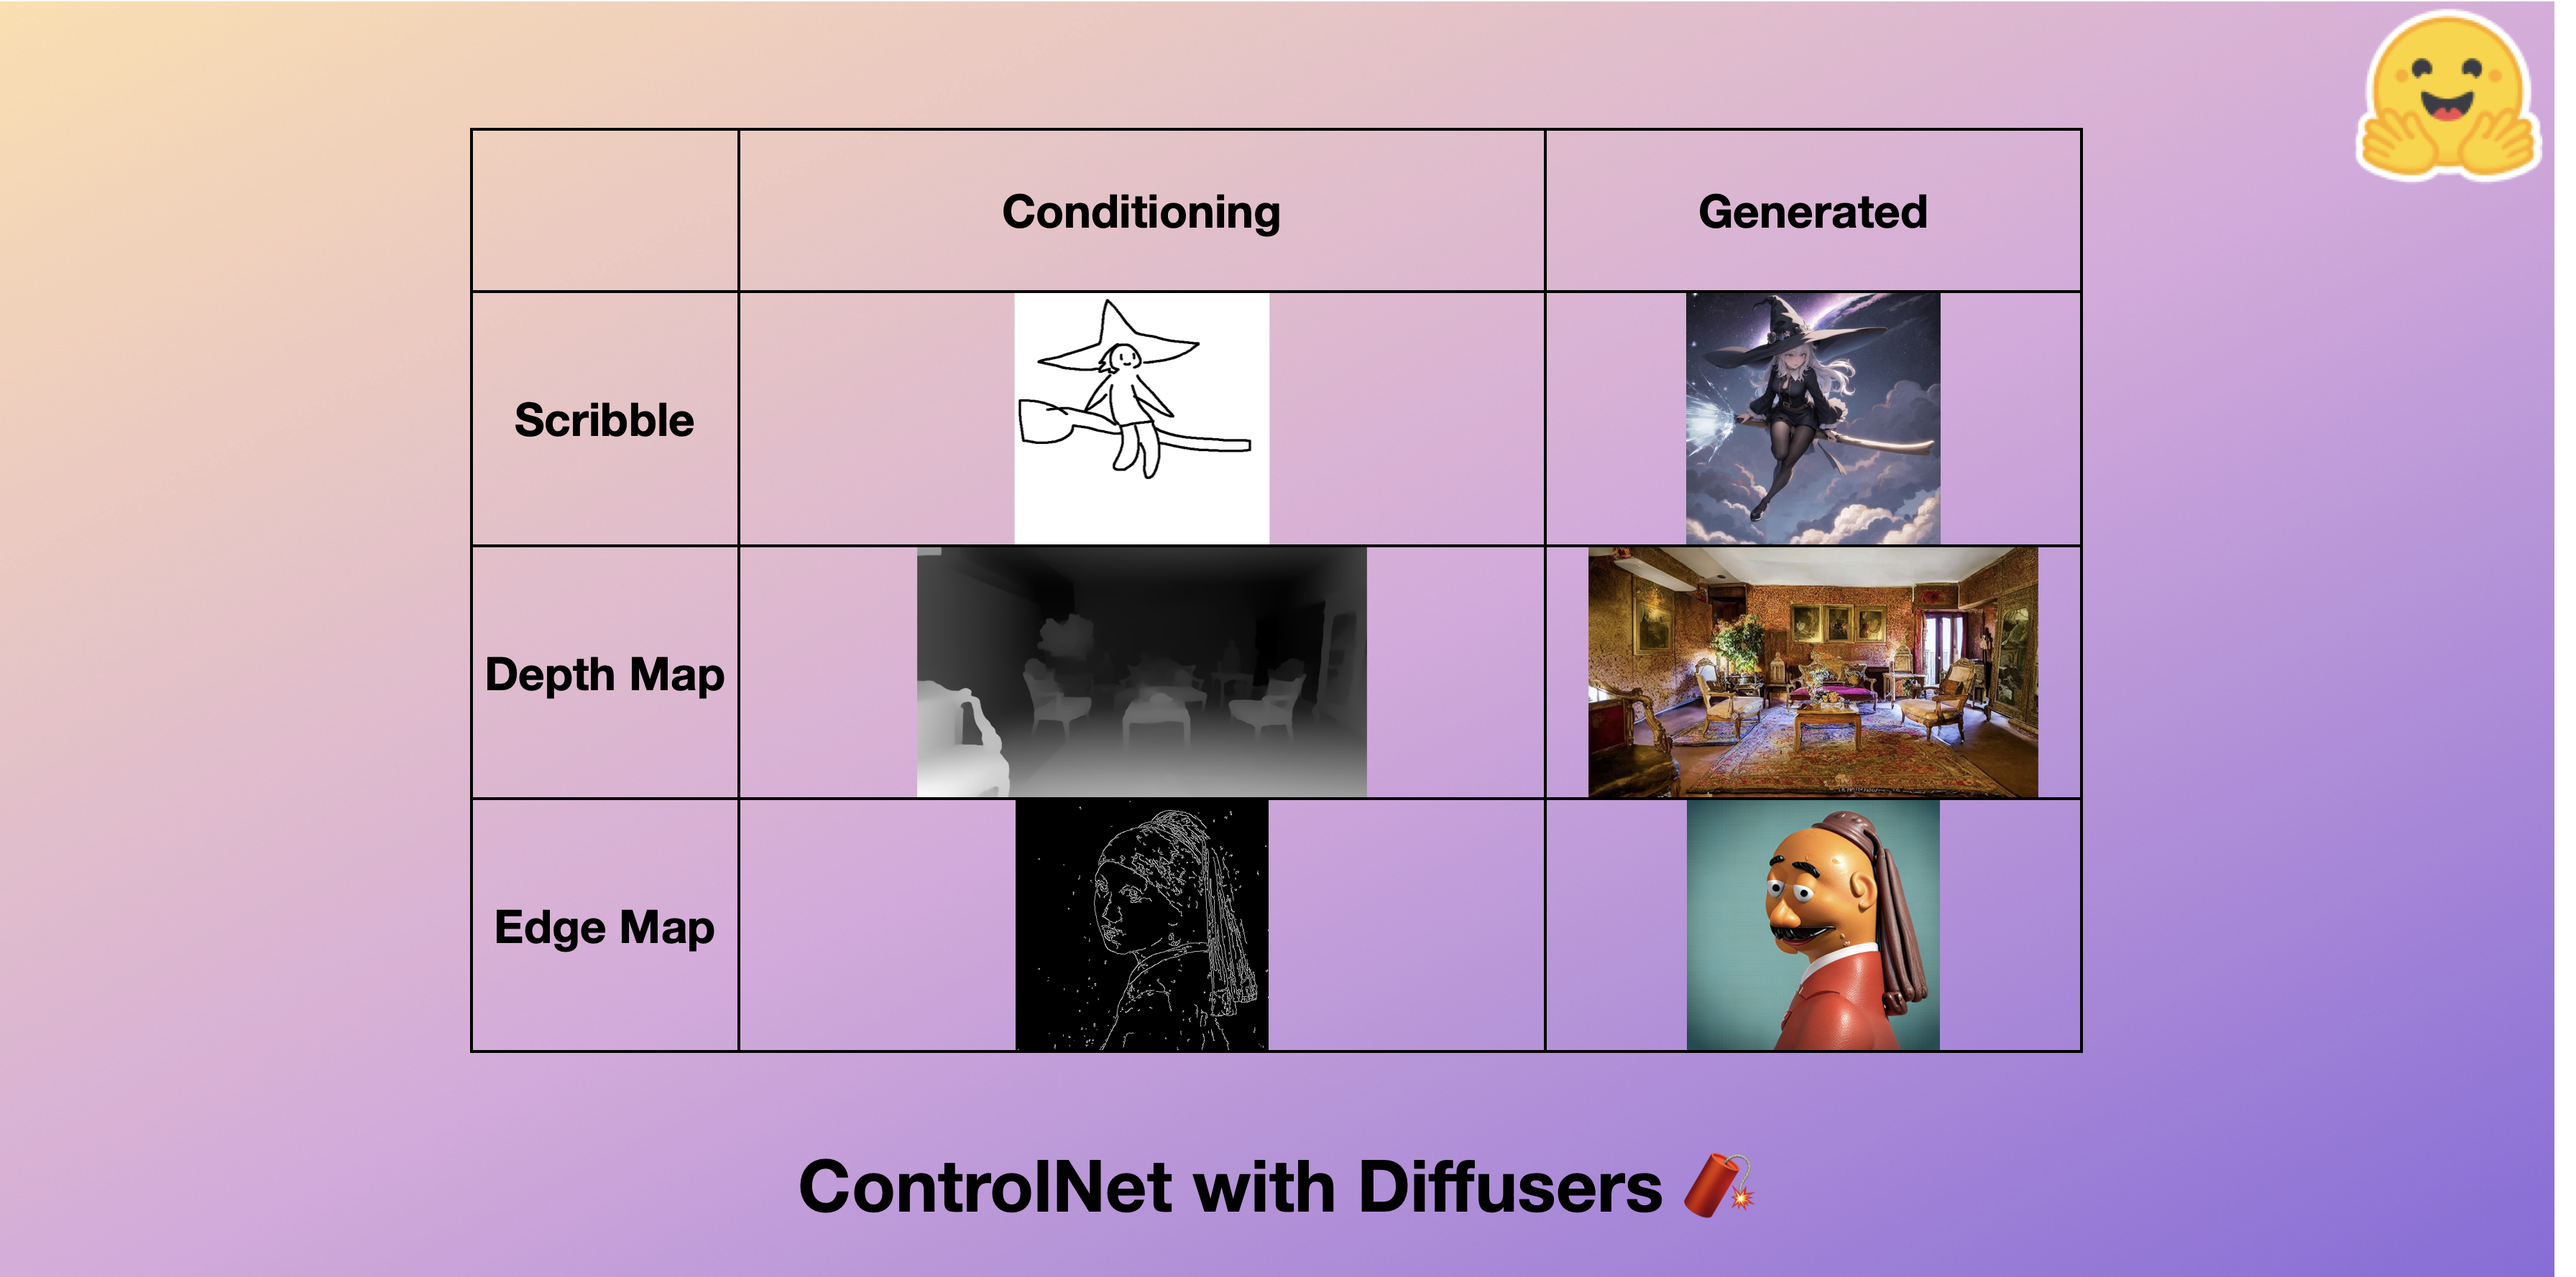
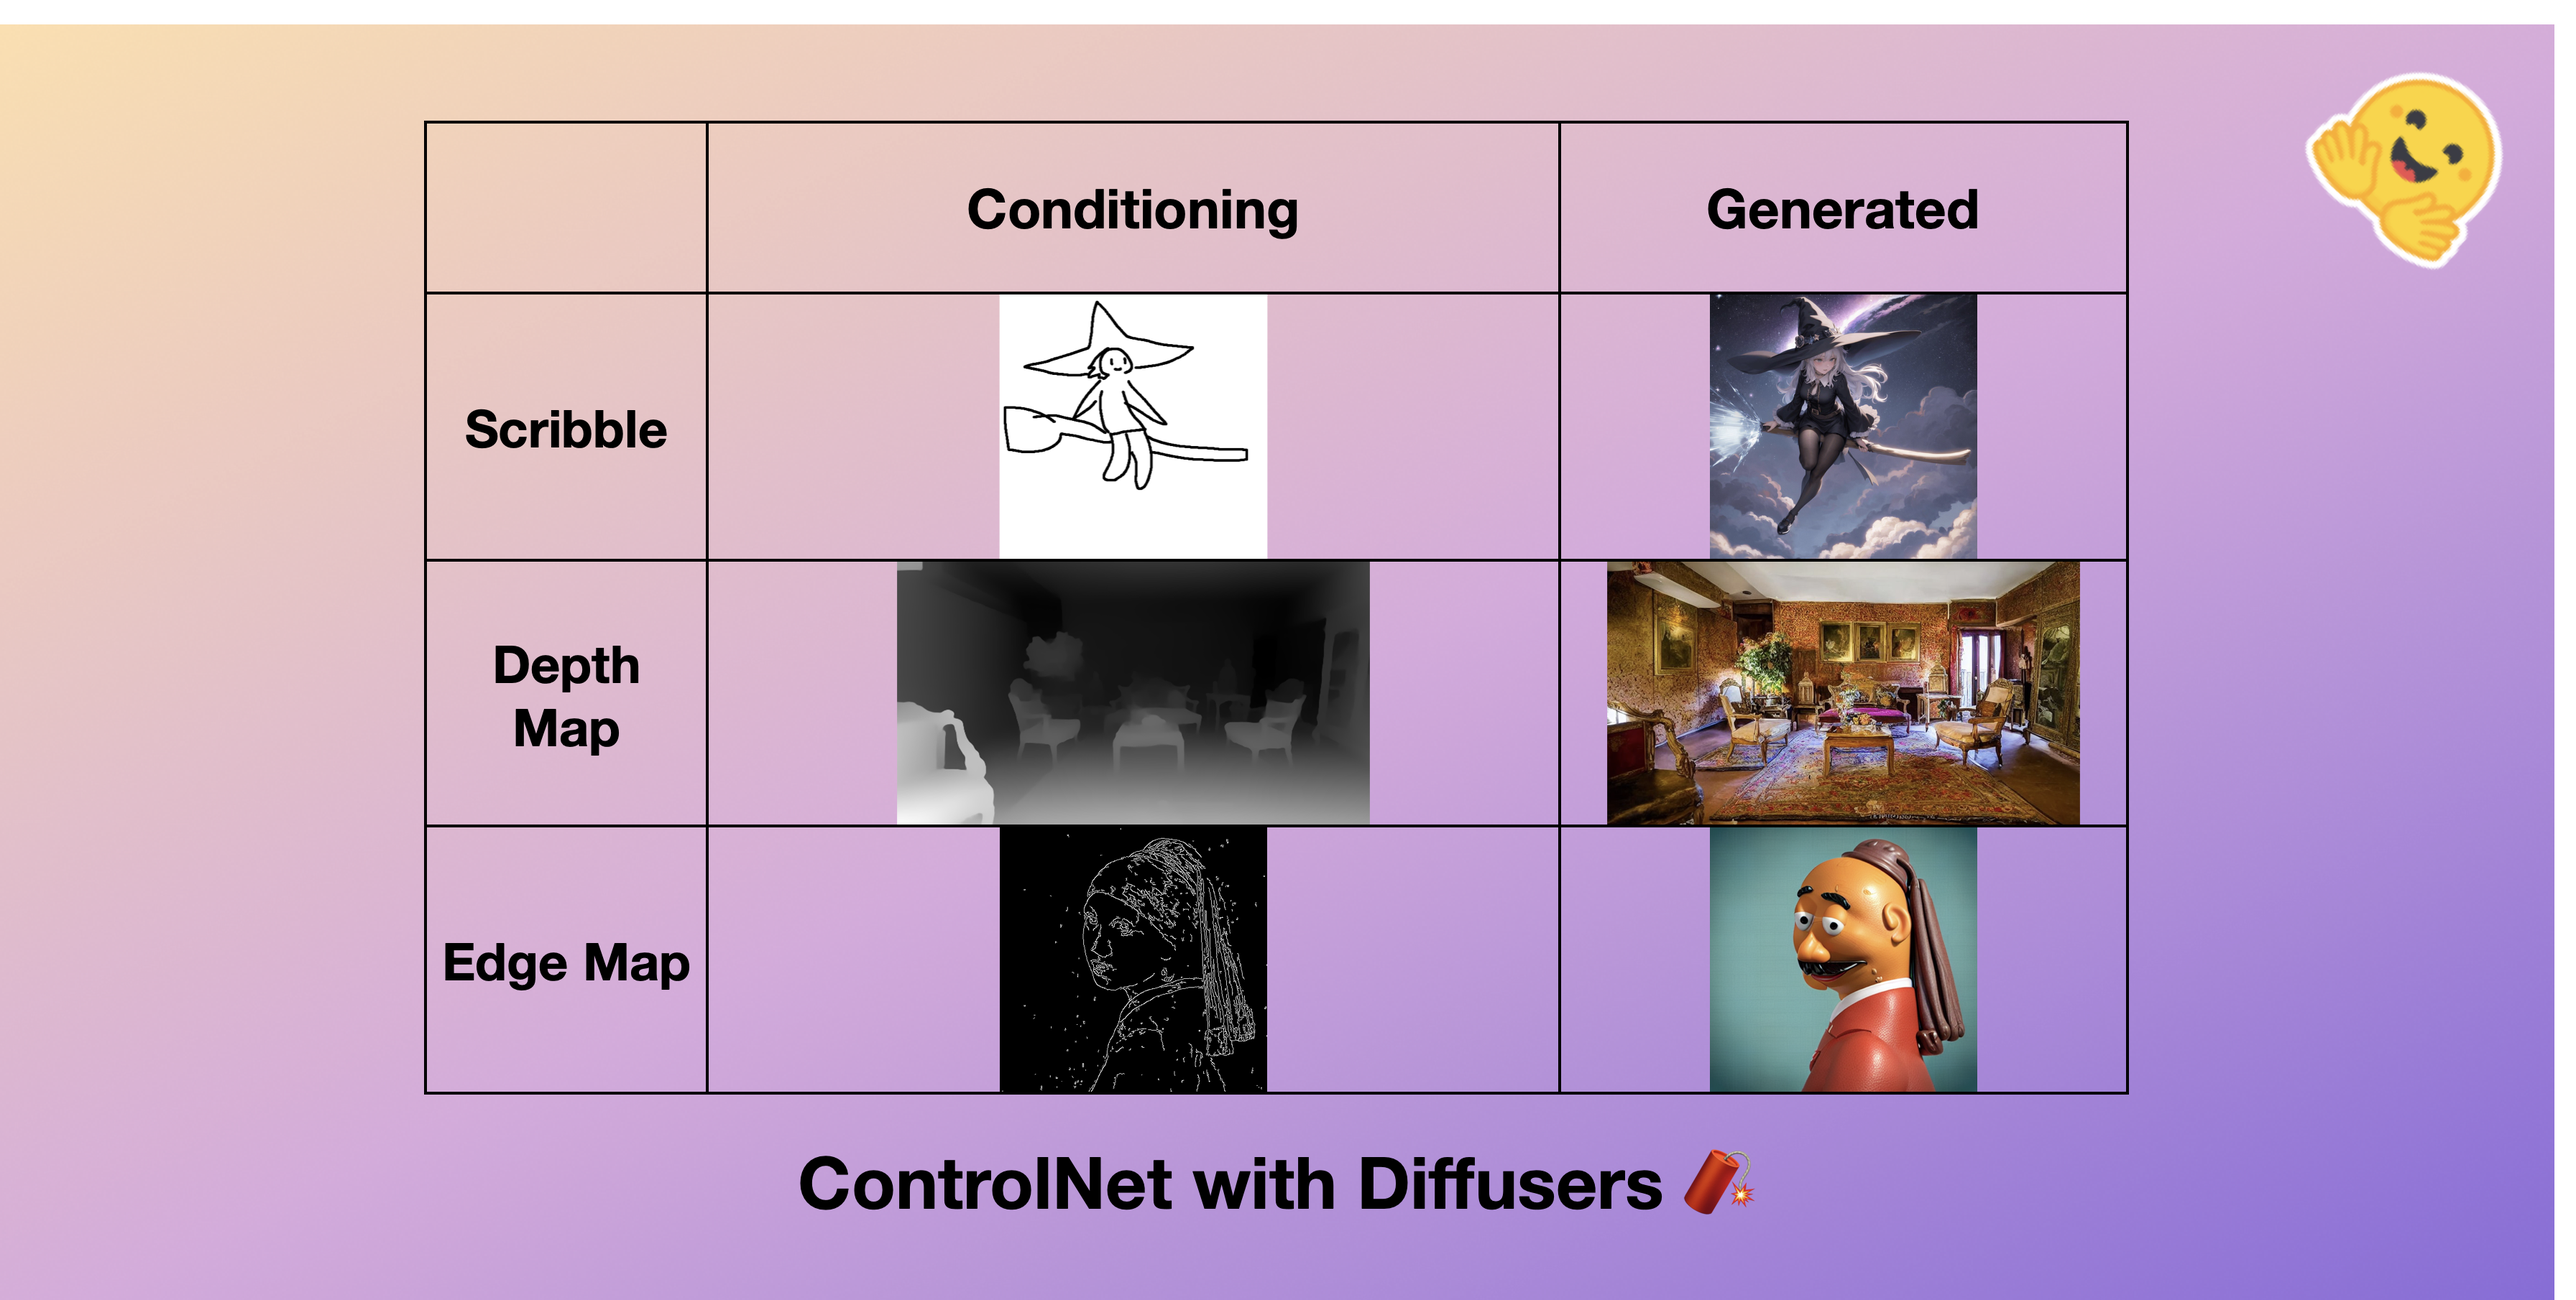
edits

diff --git a/controlnet.md b/controlnet.md
@@ -1,6 +1,6 @@
 ---
 title: "ControlNet in Diffusers 🧨" 
-thumbnail: /blog/assets/controlnet/thumbnail.png <!-- UPDATE -->
+thumbnail: /blog/assets/controlnet/thumbnail.png 
 authors:
 - user: takuma104
   guest: true
@@ -25,61 +25,53 @@ Ever since Stable Diffusion took the world by storm, people have been looking fo
 
 We can turn a cartoon drawing into a realistic photo with incredible coherence.
 
-<div align="center">
-    <table>
-    <tr>
-        <th>Realistic Lofi Girl</th>
-    </tr>
-    <tr>
-        <td><img src="https://huggingface.co/datasets/YiYiXu/controlnet-testing/resolve/main/lofi.jpg" width=300/></td>
-   </tr>
-    </table>
-</div>
+<table>
+<tr style="text-align: center;">
+    <th>Realistic Lofi Girl</th>
+</tr>
+<tr style="text-align: center;">
+    <td><img src="https://huggingface.co/datasets/YiYiXu/controlnet-testing/resolve/main/lofi.jpg" width=300/></td>
+</tr>
+</table>
 
 Or even  use it as your interior designer.
 
-<div align="center">
-    <table>
-    <tr>
-        <th>Before</th>
-        <th>After</th>
-    </tr>
-    <tr>
-        <td><img src="https://huggingface.co/datasets/YiYiXu/controlnet-testing/resolve/main/house_depth.png" width=300/></td>
-        <td><img src="https://huggingface.co/datasets/YiYiXu/controlnet-testing/resolve/main/house_after.jpeg" width=300/></td>
-    </tr>
-    </table>
-</div>
+<table>
+<tr style="text-align: center;">
+    <th>Before</th>
+    <th>After</th>
+</tr>
+<tr style="text-align: center;">
+    <td><img src="https://huggingface.co/datasets/YiYiXu/controlnet-testing/resolve/main/house_depth.png" width=300/></td>
+    <td><img src="https://huggingface.co/datasets/YiYiXu/controlnet-testing/resolve/main/house_after.jpeg" width=300/></td>
+</tr>
+</table>
 
 You can turn your sketch scribble into an artistic drawing.
 
-<div align="center">
-    <table>
-    <tr>
-        <th>Before</th>
-        <th>After</th>
-    </tr>
-    <tr>
-        <td><img src="https://huggingface.co/datasets/YiYiXu/controlnet-testing/resolve/main/drawing_before.png" width=300/></td>
-        <td><img src="https://huggingface.co/datasets/YiYiXu/controlnet-testing/resolve/main/drawing_after.jpeg" width=300/></td>
-    </tr>
-    </table>
-</div>
+<table>
+<tr style="text-align: center;">
+    <th>Before</th>
+    <th>After</th>
+</tr>
+<tr style="text-align: center;">
+    <td><img src="https://huggingface.co/datasets/YiYiXu/controlnet-testing/resolve/main/drawing_before.png" width=300/></td>
+    <td><img src="https://huggingface.co/datasets/YiYiXu/controlnet-testing/resolve/main/drawing_after.jpeg" width=300/></td>
+</tr>
+</table>
 
 Also, make some of the famous logos coming to life.
 
-<div align="center">
-    <table>
-    <tr>
-        <th>Before</th>
-        <th>After</th>
-    </tr>
-    <tr>
-        <td><img src="https://huggingface.co/datasets/YiYiXu/controlnet-testing/resolve/main/starbucks_logo.jpeg" width=300/></td>
-        <td><img src="https://huggingface.co/datasets/YiYiXu/controlnet-testing/resolve/main/starbucks_after.png" width=300/></td>
-    </tr>
-    </table>
-</div>
+<table>
+<tr style="text-align: center;">
+    <th>Before</th>
+    <th>After</th>
+</tr>
+<tr style="text-align: center;">
+    <td><img src="https://huggingface.co/datasets/YiYiXu/controlnet-testing/resolve/main/starbucks_logo.jpeg" width=300/></td>
+    <td><img src="https://huggingface.co/datasets/YiYiXu/controlnet-testing/resolve/main/starbucks_after.png" width=300/></td>
+</tr>
+</table>
 
 With ControlNet, sky is the limit 🌠 
 
@@ -100,37 +92,33 @@ Pictorially, it looks like so:
 
 A sample from the training set for ControlNet-like training looks like this (additional conditioning is via edge maps):
 
-<div align="center">
-    <table>
-    <tr>
-        <th>Original Image</th>
-        <th>Conditioning</th>
-        <th>Prompt</th>
-    </tr>
-    <tr>
-        <td><img src="https://huggingface.co/datasets/huggingface/documentation-images/resolve/main/blog/controlnet/original_bird.png" width=200/></td>
-        <td><img src="https://huggingface.co/datasets/huggingface/documentation-images/resolve/main/blog/controlnet/canny_map.png" width=200/></td>
-        <td>"bird"</td>
-    </tr>
-    </table>
-</div>
+<table>
+<tr style="text-align: center;">
+    <th>Original Image</th>
+    <th>Conditioning</th>
+    <th>Prompt</th>
+</tr>
+<tr style="text-align: center;">
+    <td><img src="https://huggingface.co/datasets/huggingface/documentation-images/resolve/main/blog/controlnet/original_bird.png" width=200/></td>
+    <td><img src="https://huggingface.co/datasets/huggingface/documentation-images/resolve/main/blog/controlnet/canny_map.png" width=180/></td>
+    <td>"bird"</td>
+</tr>
+</table>
 
 Similarly, if we were to condition ControlNet with semantic segmentation maps, a training sample would be like so:
 
-<div align="center">
-    <table>
-    <tr>
-        <th>Original Image</th>
-        <th>Conditioning</th>
-        <th>Prompt</th>
-    </tr>
-    <tr>
-        <td><img src="https://huggingface.co/datasets/huggingface/documentation-images/resolve/main/blog/controlnet/original_house.png" width=300/></td>
-        <td><img src="https://huggingface.co/datasets/huggingface/documentation-images/resolve/main/blog/controlnet/segmentation_map.png" width=300/></td>
-        <td>"big house"</td>
-    </tr>
-    </table>
-</div>
+<table>
+<tr style="text-align: center;">
+    <th>Original Image</th>
+    <th>Conditioning</th>
+    <th>Prompt</th>
+</tr>
+<tr style="text-align: center;">
+    <td><img src="https://huggingface.co/datasets/huggingface/documentation-images/resolve/main/blog/controlnet/original_house.png" width=300/></td>
+    <td><img src="https://huggingface.co/datasets/huggingface/documentation-images/resolve/main/blog/controlnet/segmentation_map.png" width=235/></td>
+    <td>"big house"</td>
+</tr>
+</table>
 
 Every new type of conditioning requires training a new copy of ControlNet weights. The paper proposed 8 different conditioning models that are all [supported](https://huggingface.co/lllyasviel?search=controlnet) in Diffusers! Trained ControlNet models are chosen during inference, as we will see below.
 
